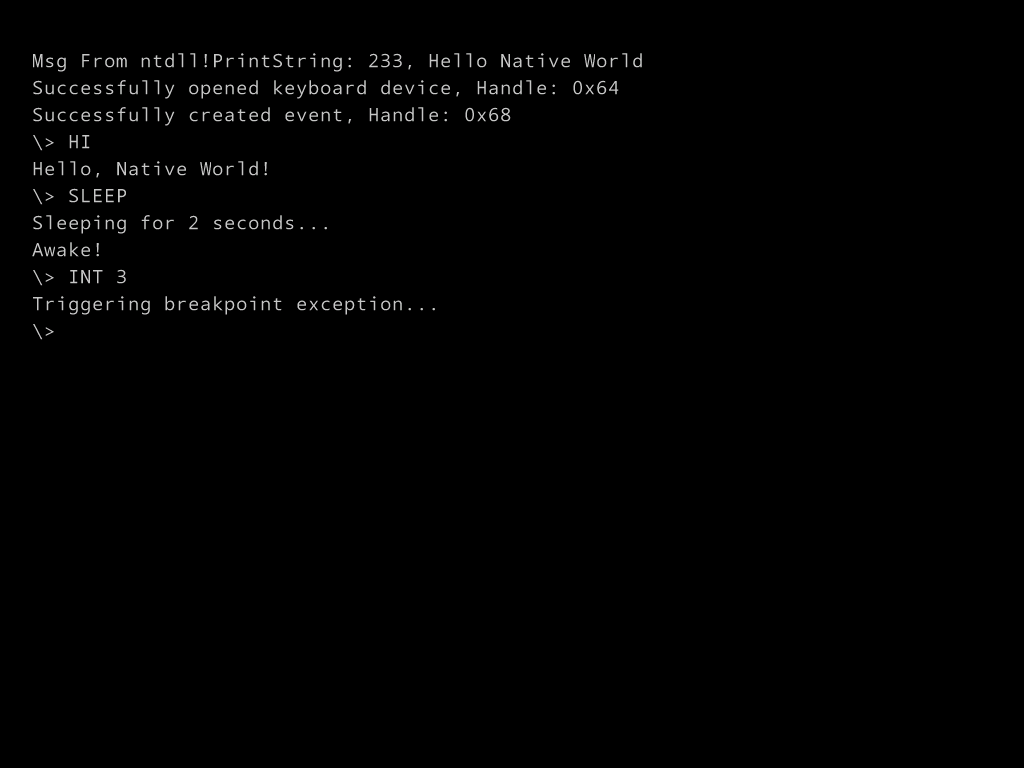
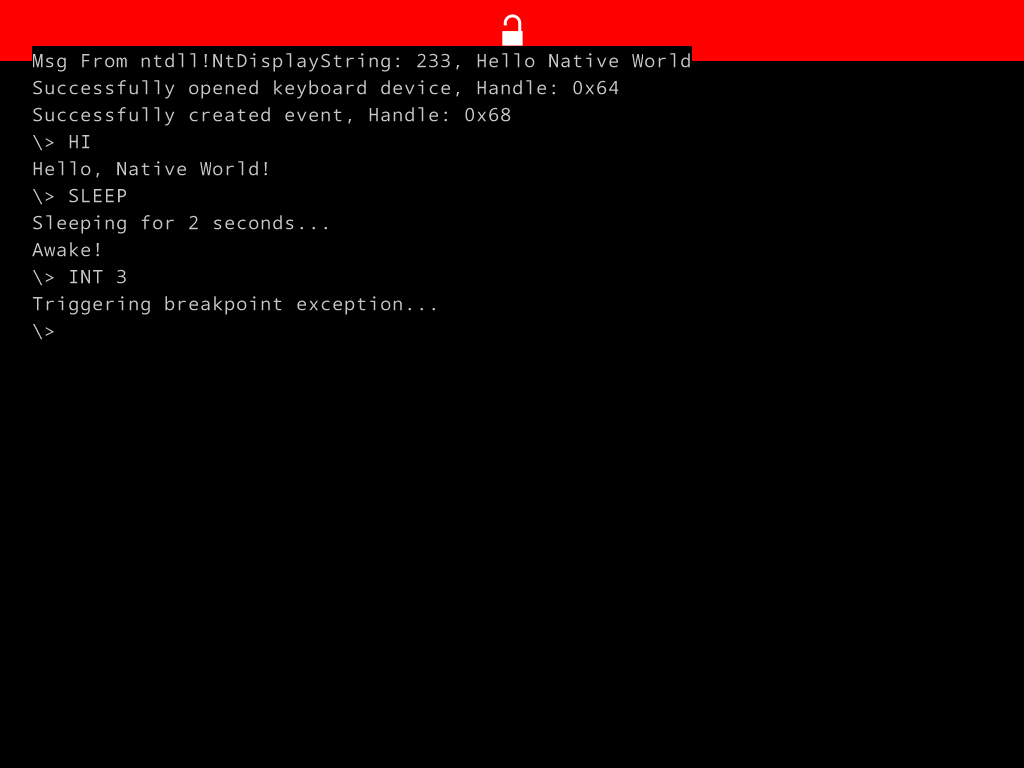
Fix Display String

Changed region(s): [[0.0, 0.0, 1.0, 0.0938]]

diff --git a/main.c b/main.c
@@ -6,7 +6,7 @@ void entry()
 	UNICODE_STRING Text = RTL_CONSTANT_STRING(L"Msg From ntdll!NtDrawText\n");
     NtDrawText(&Text);
     NOP_Toy();
-	PrintString("Msg From ntdll!PrintString: %d, %s\n", 233, "Hello Native World");
+	PrintString("Msg From ntdll!NtDisplayString: %d, %s\n", 233, "Hello Native World");
 	// open keyboard device
 	HANDLE KeyboardHandle;
 	IO_STATUS_BLOCK IoStatusBlock;
